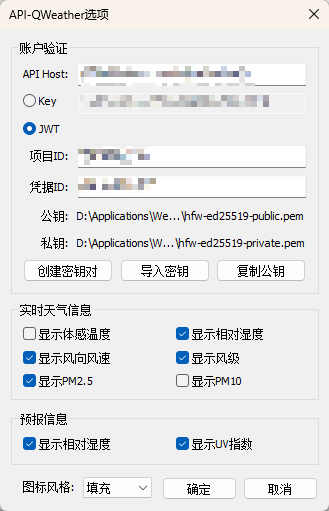
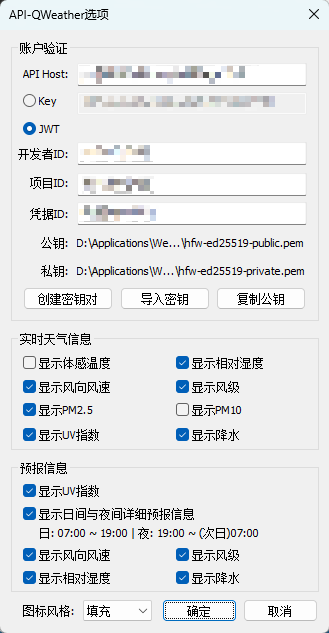
refactor: update docs

diff --git a/WeatherPro/DataManager.cpp b/WeatherPro/DataManager.cpp
@@ -162,7 +162,7 @@ namespace
     ///////////////////////////////////////////////////////////////////////////////////////////////////////////////////
     /// 自动定位
     bool AutoLocating(LocationSource source, const DataProvider &data_provider, Location &loc) {
-        SPDLOG_DEBUG("auto-locating starts");
+        SPDLOG_DEBUG("auto-locating process starts");
 
         loc = {};
 

diff --git a/README.md b/README.md
@@ -13,7 +13,7 @@ WeatherPro 是一款为 [TrafficMonitor](https://github.com/zhongyang219/Traffic
 - 支持多种天气接口 （配置方法请参考[接口说明](docs/DataSourceGuide.md)）
   - 天气网 (weather.com.cn)
   - 和风天气 (qweather.com)
-  - OpenWeather (openweathermap.org)
+  - OpenWeather (openweathermap.org) *(现已支持Onecall 4.0)*
 - 支持在横置任务栏占用两行显示天气信息
 - 支持设置数据常驻显示区
 - 支持在固定宽度的主窗口区滚动显示长文本
@@ -21,16 +21,14 @@ WeatherPro 是一款为 [TrafficMonitor](https://github.com/zhongyang219/Traffic
 
 ## 版本更新
 
-**v1.3.0**
+- v1.4.0
 
-- [新增] 在插件右键菜单中添加了常用命令
-- [优化] 适配OpenWeather OneCall 4.0接口
-- [优化] 改进了部分日志信息
-
-**v1.3.1**
-
-- [修复] 修正了OpenWeather OneCall数据单位显示错误
-
+  - [新增] 设置界面添加仅执行一次自动定位的选项
+  - [优化] 适配和风天气最新 **实时天气** 接口，新增了紫外线指数、降水数据
+  - [优化] 适配和风天气最新 **每日天气预报** 接口, 可区分日间/夜间详细预报，新增风力、降水数据
+  - [优化] 增加插件ICON图标，改进部分日志信息
+  - [修复] 适配和风天气最新JWT身份验证规则，需填写 **开发者ID**，具体请参考[配置说明](docs/DataSourceGuide.md#232-jwt)
+ 
 [查看历史更新](#历史更新)
 
 ## 程序界面介绍
@@ -47,11 +45,17 @@ WeatherPro 是一款为 [TrafficMonitor](https://github.com/zhongyang219/Traffic
 
   v1.0版本支持设置常驻信息显示区，按选定的时间段与数据项目显示数据。修改常驻显示区配置后需要重启TrafficMonitor使配置生效。
 
+  > 修改常驻项的标签文本方法：打开TrafficMonitor「选项设置」窗口，进入「任务栏窗口设置」页，在「显示设置」区域，点击「显示文本设置」按钮，打开「显示文本设置」窗口即可修改
+
+  > 注意：接口可能缺失特定数据，显示「--」
+
   ![常驻显示区](images/taskbar-wnd-pinned-items.png)
 
 - 鼠标提示弹窗
 
   ![提示弹窗](images/tooltip-info.png)
+
+  > 上图为使用和风天气接口的数据内容。具体显示项目可在API选项窗口配置。
 
 - 设置界面
 
@@ -96,6 +100,13 @@ WeatherPro 是一款为 [TrafficMonitor](https://github.com/zhongyang219/Traffic
 请参考[构建说明文档](docs/Build.md)。
 
 ## 历史更新
+
+- v1.3.0/1.3.1
+
+  - [新增] 在插件右键菜单中添加了常用命令
+  - [优化] 适配OpenWeather OneCall 4.0接口
+  - [优化] 改进了部分日志信息
+  - [修复] 修正了OpenWeather OneCall数据单位显示错误
 
 - v1.2.0
 

diff --git a/docs/DataSourceGuide.md b/docs/DataSourceGuide.md
@@ -40,6 +40,7 @@
 - 在「上传公钥」的输入框内粘贴公钥内容，点击保存
 - 在JWT凭据页面，复制「凭据ID」，粘贴至插件API选项界面「凭据ID」对应输入框
 - 在项目页面，复制「项目ID」，粘贴至插件API选项界面「项目ID」对应输入框
+- 在设置页面，复制「开发者ID」，粘贴至插件API选项界面「开发者ID」对应输入框
 
 ## 3. OpenWeather (www.openweathermap.org)
 
